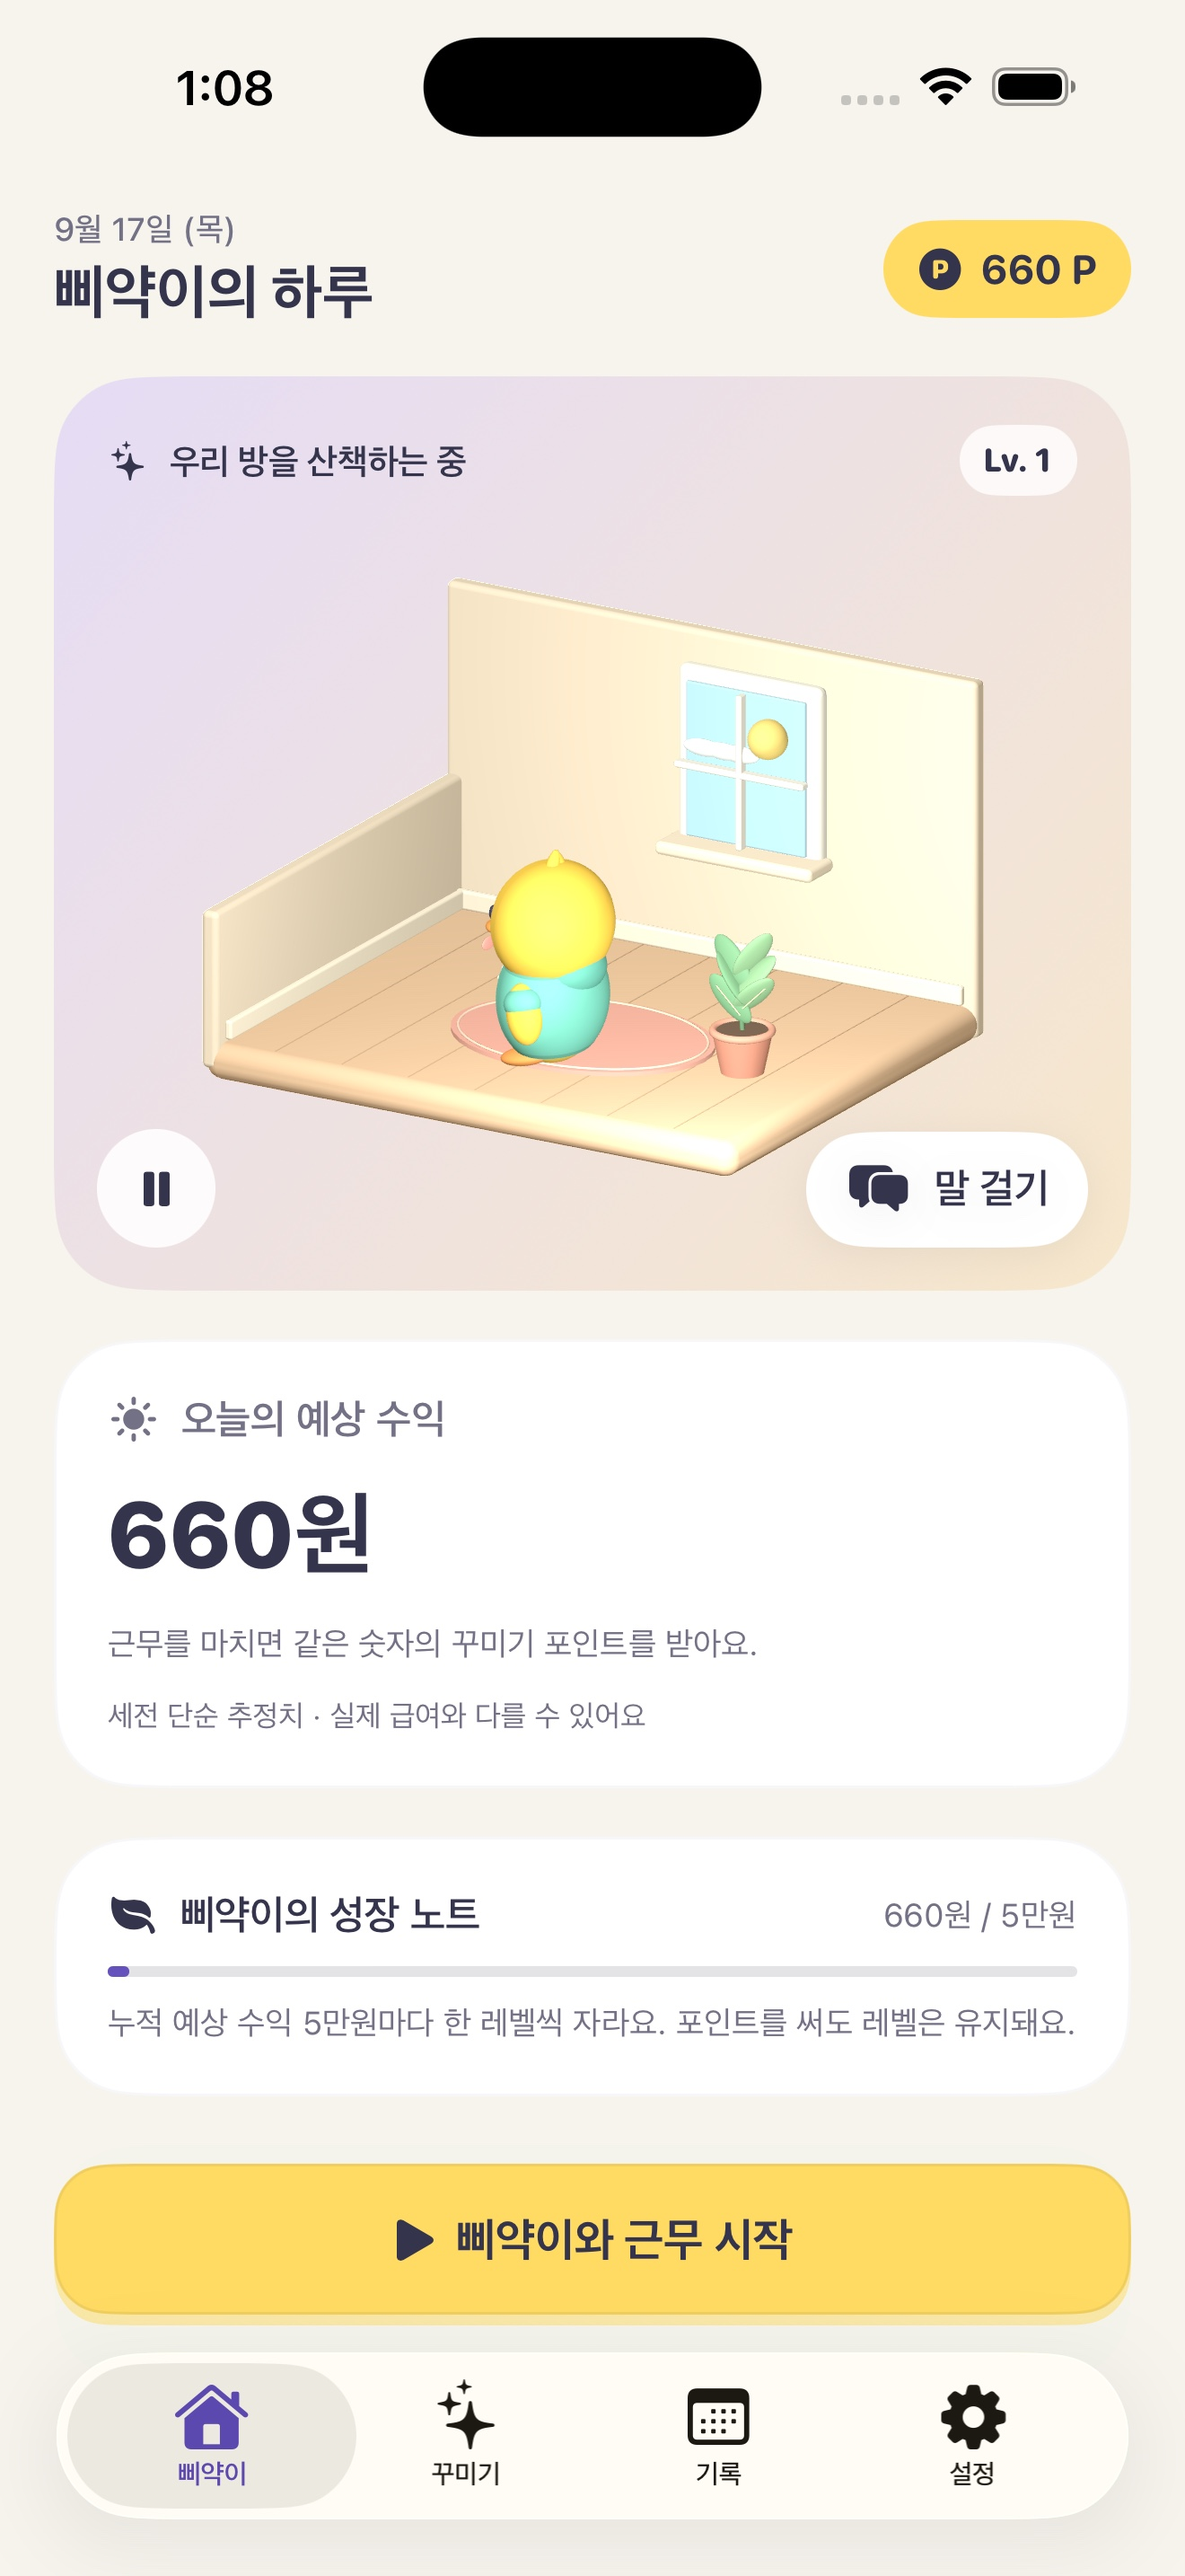
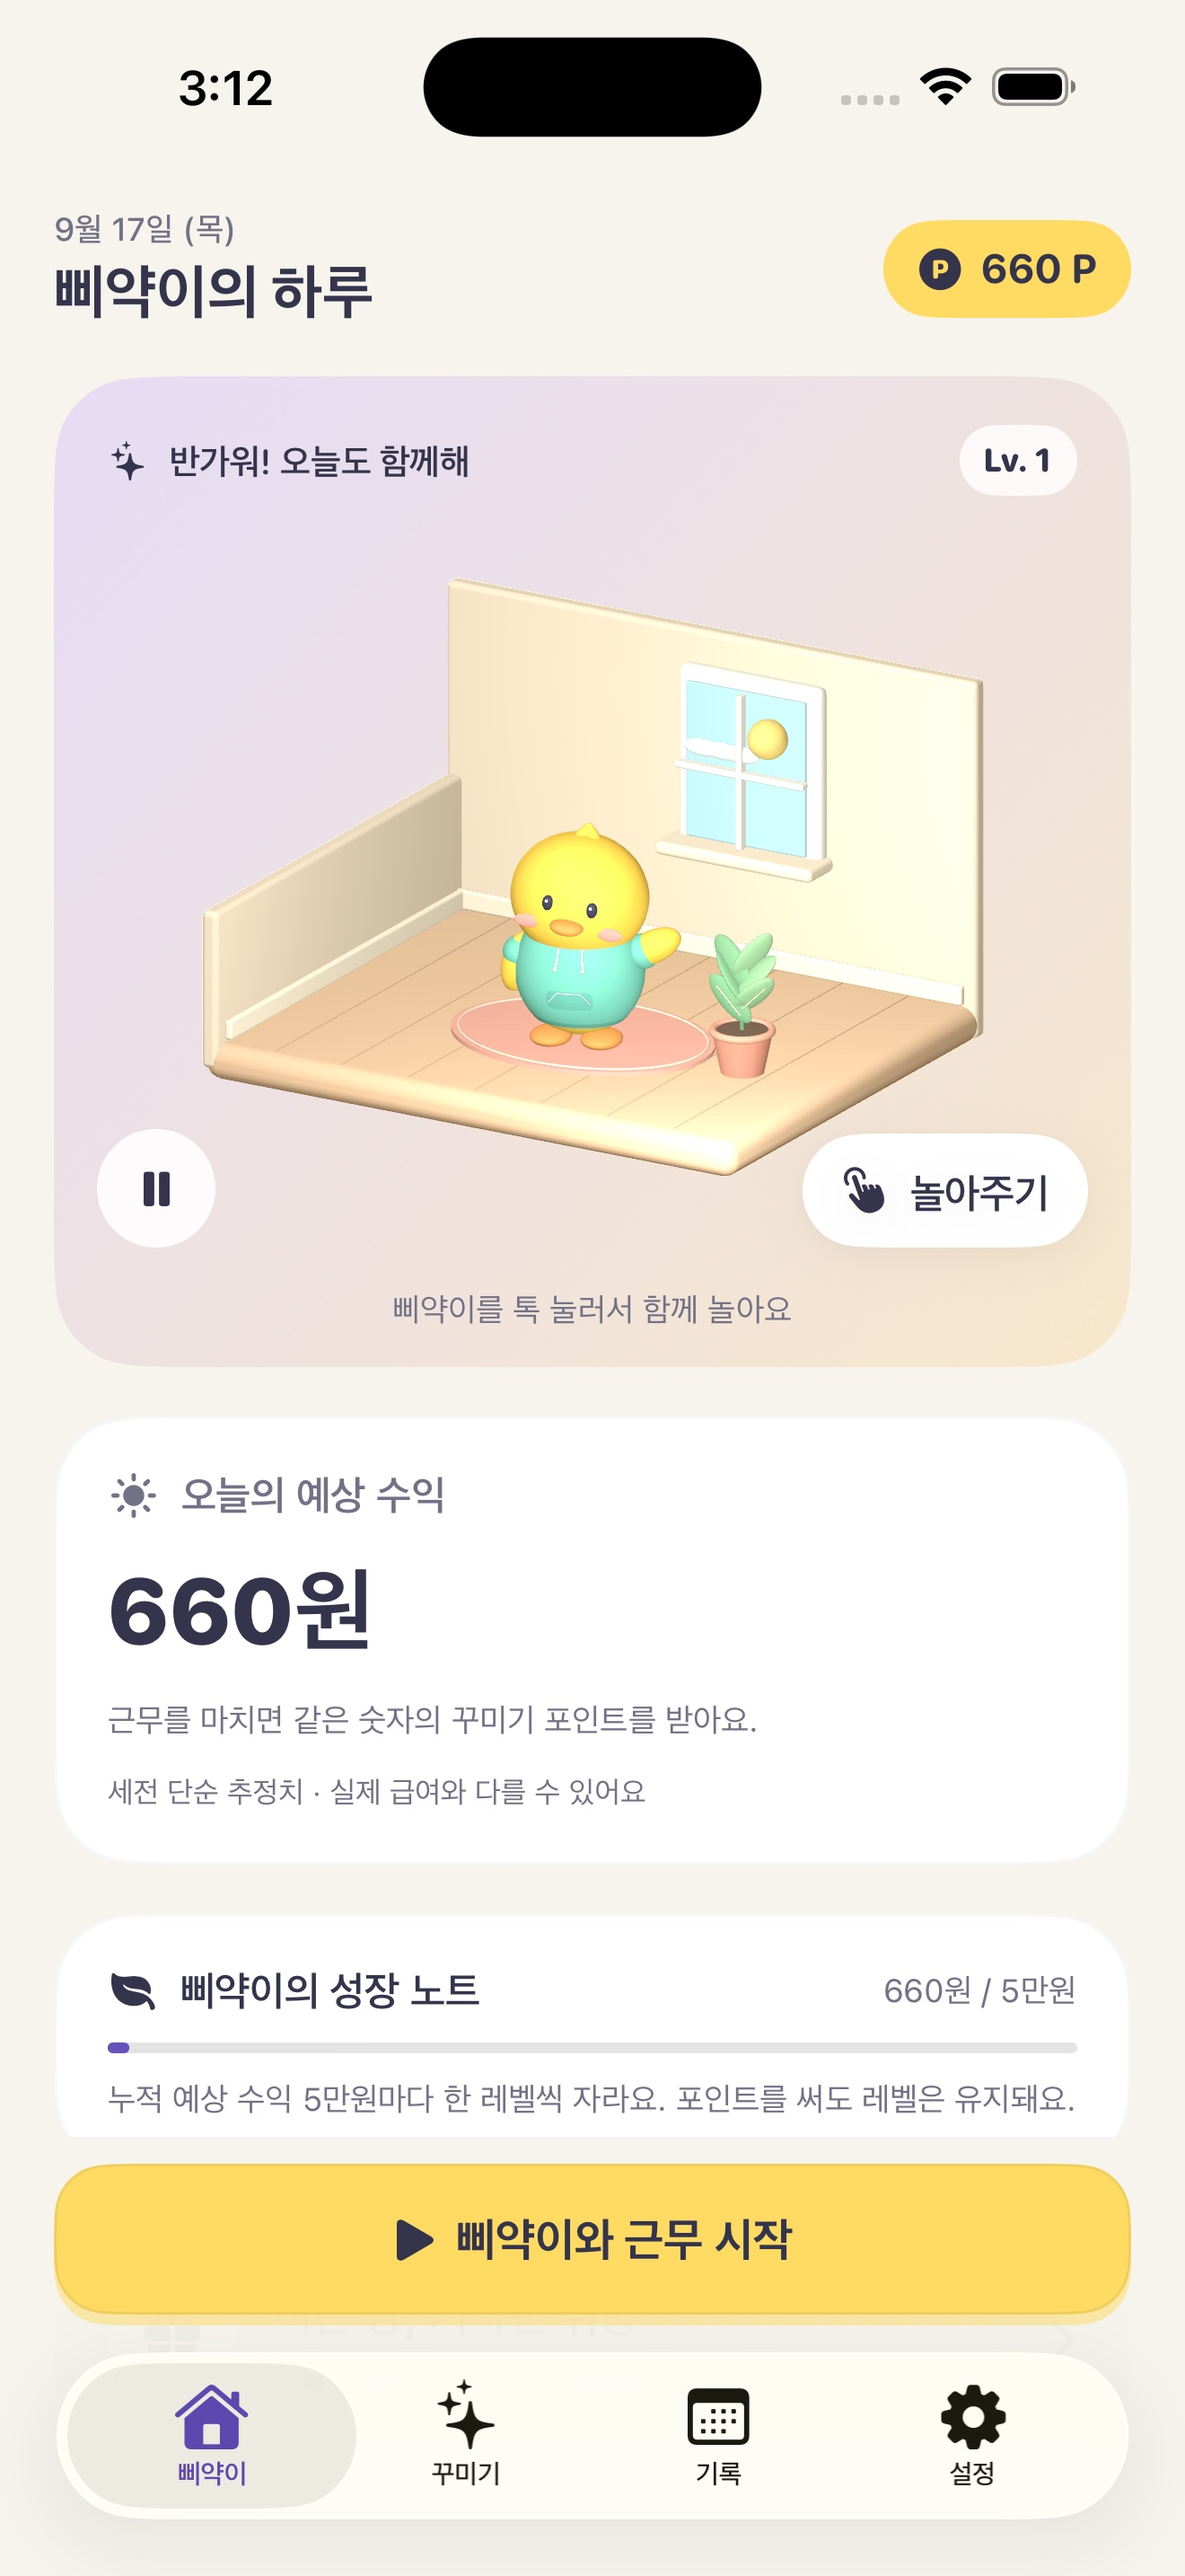
Document verified play interactions and refresh home screenshot

diff --git a/docs/RELEASE_VALIDATION.md b/docs/RELEASE_VALIDATION.md
@@ -35,9 +35,9 @@ nice -n 15 xcodebuild -project PiyakBank.xcodeproj -scheme PiyakBank -configurat
 - 강제 저장 실패 시 정산·구매·장착·기록 수정·삭제·초기화의 원장과 화면 모델 복원을 확인했습니다.
 - 근무 상태 복구, 중복/만료/다른 세션 워치 명령 차단, 설정 유지, 기존 정산 보정의 재실행 안전성을 확인했습니다.
 - 리소스 검사 통과: 81개 고유 아이템 미리보기, iOS/Watch 1024px 불투명 아이콘, 3개 개인정보 매니페스트, URL scheme, StoreKit 테스트 설정 제거.
-- 최신 Debug 시뮬레이터 빌드가 성공했습니다. 앱·동반 Watch 앱·위젯을 모두 포함한 서명 비활성화 검증입니다. 생성된 앱 실행 파일과 Debug 라이브러리에 제거한 모델 프레임워크 연결이 없음을 확인했습니다. 최종 Release 빌드는 원격 CI에서 확인합니다.
-- 해당 Release 산출물에서 iOS 17.0 / watchOS 10.0 최소 버전과 매니페스트 포함을 확인했습니다.
-- 해당 빌드에는 AppIntents를 사용하지 않아 나오는 메타데이터 추출 생략 경고 외 빌드 오류가 없었습니다.
+- 최신 Debug 시뮬레이터 빌드가 성공했습니다. 앱·동반 Watch 앱·위젯을 모두 포함한 서명 비활성화 검증입니다. 생성된 앱 실행 파일과 Debug 라이브러리에 제거한 모델 프레임워크 연결이 없음을 확인했습니다.
+- 구현 커밋 `e319c46`의 [원격 CI](https://github.com/eric91405/piyak-bank-ios/actions/runs/35187449624)에서 회귀 테스트·리소스 검사와 iOS·Watch·위젯 Release 빌드를 모두 통과했습니다.
+- 이전 로컬 Release 산출물에서 iOS 17.0 / watchOS 10.0 최소 버전과 매니페스트 포함을 확인했습니다. 해당 빌드에는 AppIntents를 사용하지 않아 나오는 메타데이터 추출 생략 경고 외 빌드 오류가 없었습니다.
 
 ## 직접 확인한 동작
 
@@ -47,7 +47,7 @@ nice -n 15 xcodebuild -project PiyakBank.xcodeproj -scheme PiyakBank -configurat
 - 모델 개선 후 iPhone 17 Pro Max: 홈에서 걷기→화분 물주기→기지개 활동과 재생/일시정지를 확인했습니다. 초기 가시성 오판정을 수정하고 실제 프레임·행동 상태 로그로 재검증했습니다.
 - 아이템 상세에서 멜빵바지 회전, 115% 확대, 원래 각도/100% 복원, 가까이/방 보기 전환을 직접 확인했습니다. 회전·확대 버튼을 검증했으며, 두 손가락 제스처는 이 자동화 환경에서 직접 검증하지 못했습니다.
 - 코드 확인: 홈에서는 실제 보이는 동안 최대 24fps로 방 안 행동을 실행하도록 구성했습니다. 꾸미기 미리보기는 고정 포즈이며, 다른 탭·백그라운드·저전력·심한 발열·Reduce Motion에서는 홈 애니메이션을 멈춥니다. 저전력·발열 상태를 강제 발생시킨 실기기 시험은 하지 않았습니다.
-- 삐약이 탭과 새 ‘놀아주기’ 버튼을 통한 인사·장착 가구 상호작용, 최종 홈 화면 캡처는 갱신 대기 중입니다.
+- 최신 iPhone 17 Pro Max / iOS 26.5에서 ‘놀아주기’ 버튼의 기쁜 날갯짓 반응과 삐약이 직접 터치의 인사, 장착한 화분에 물주기를 확인했습니다. 일시정지 상태에서 누르면 ‘반가워! 쉬면서도 함께할게’ 인사를 표시하면서 정지를 유지하고, 재생 버튼으로 산책을 다시 시작합니다. 새 버튼과 인사 동작을 포함한 홈 화면을 캡처했습니다.
 
 ## 행동·모델 검증
 
@@ -56,9 +56,9 @@ nice -n 15 xcodebuild -project PiyakBank.xcodeproj -scheme PiyakBank -configurat
 - 행동 선택과 경로 검증은 장착한 가구·소품, 안전한 이동 범위와 일시정지를 다룹니다.
 - 생성 미리보기에는 원본 모델·생성기 파일의 SHA-256 지문을 기록하고 CI에서 대조합니다. 모델을 바꾸면 이미지도 다시 생성해야 검사에 통과합니다.
 
-[실제 화면 캡처](screenshots/): iPhone 1320×2868, iPad 2064×2752. 원본 시뮬레이터 화면을 크기 변경 없이 JPEG로 내보냈으며 합성 목업이 아닙니다. 홈 화면은 새 ‘놀아주기’ 동작을 반영해 갱신할 예정입니다. iPad 및 접근성 다크 모드 이미지는 모델 개선 이전의 QA 참고용입니다.
+[실제 화면 캡처](screenshots/): iPhone 1320×2868, iPad 2064×2752. 원본 시뮬레이터 화면을 크기 변경 없이 JPEG로 내보냈으며 합성 목업이 아닙니다. 홈 화면은 새 ‘놀아주기’ 버튼과 삐약이의 인사 동작으로 갱신했습니다. iPad 및 접근성 다크 모드 이미지는 모델 개선 이전의 QA 참고용입니다.
 
-발열을 줄이기 위해 로컬 검증은 낮은 프로세스 우선순위·작업 수 1개와 냉각 간격을 적용하며, 시뮬레이터 화면 점검은 한 기기씩 수행하고 사용하지 않는 인스턴스는 종료합니다. 최종 앱 전체 빌드는 원격 GitHub Actions에서 확인할 예정입니다.
+발열을 줄이기 위해 로컬 검증은 낮은 프로세스 우선순위·작업 수 1개와 냉각 간격을 적용하며, 시뮬레이터 화면 점검은 한 기기씩 수행하고 사용하지 않는 인스턴스는 종료합니다. 최종 앱 전체 Release 빌드는 원격 GitHub Actions에서 확인했습니다. 최신 홈 화면 점검 중 시스템 전체 CPU 사용률은 약 17~19%, macOS 발열 상태는 `nominal`이었습니다. 이는 실제 온도 측정값은 아닙니다.
 
 ## 제출 전 남은 검증
 

diff --git a/README.md b/README.md
@@ -12,7 +12,7 @@
 
 <img src="docs/screenshots/iphone-home.jpg" width="240" alt="방 안에서 생활하는 입체 병아리와 예상 수익"> <img src="docs/screenshots/iphone-decorate.jpg" width="240" alt="옷과 가구를 미리 보는 꾸미기 상점"> <img src="docs/screenshots/iphone-item-preview.jpg" width="240" alt="회전과 확대 버튼으로 살펴보는 입체 의상">
 
-iPhone 17 Pro Max 시뮬레이터에서 직접 캡처했습니다. 홈 화면은 새 ‘놀아주기’ 동작을 반영한 캡처로 갱신할 예정입니다. 이전 출시 후보의 레이아웃 검증 자료: [iPad 화면](docs/screenshots/ipad-home.jpg) · [다크 모드와 큰 글씨](docs/screenshots/iphone-accessibility-dark.jpg). 두 참고 화면은 이번 모델 개선 이전 모습입니다.
+iPhone 17 Pro Max 시뮬레이터에서 직접 캡처했습니다. 홈 화면은 삐약이의 인사와 새 ‘놀아주기’ 버튼을 포함한 최신 화면입니다. 이전 출시 후보의 레이아웃 검증 자료: [iPad 화면](docs/screenshots/ipad-home.jpg) · [다크 모드와 큰 글씨](docs/screenshots/iphone-accessibility-dark.jpg). 두 참고 화면은 이번 모델 개선 이전 모습입니다.
 
 ## 주요 기능
 

diff --git a/docs/APP_STORE.md b/docs/APP_STORE.md
@@ -21,7 +21,7 @@
 
 ### 준비된 화면
 
-`docs/screenshots/`에 실제 시뮬레이터 캡처가 있습니다. iPhone 6.9인치용 `iphone-home.jpg`, `iphone-decorate.jpg`는 1320×2868입니다. 홈 화면은 새 ‘놀아주기’ 동작을 반영한 캡처로 갱신할 예정입니다. iPad 13인치용 `ipad-home.jpg`(2064×2752)와 `iphone-accessibility-dark.jpg`는 이번 모델 개선 이전의 레이아웃·큰 글씨 검증 참고용이므로 제출 전에 교체해야 합니다. 제출 시 최종 서명 빌드와 화면이 같은지 확인하고 Watch 실기기 화면도 추가하세요.
+`docs/screenshots/`에 실제 시뮬레이터 캡처가 있습니다. iPhone 6.9인치용 `iphone-home.jpg`, `iphone-decorate.jpg`는 1320×2868입니다. 홈 화면은 삐약이의 인사와 새 ‘놀아주기’ 버튼을 포함한 최신 화면으로 갱신했습니다. iPad 13인치용 `ipad-home.jpg`(2064×2752)와 `iphone-accessibility-dark.jpg`는 이번 모델 개선 이전의 레이아웃·큰 글씨 검증 참고용이므로 제출 전에 교체해야 합니다. 제출 시 최종 서명 빌드와 화면이 같은지 확인하고 Watch 실기기 화면도 추가하세요.
 
 ### 설명
 
